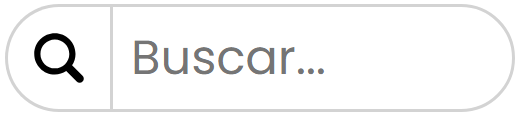
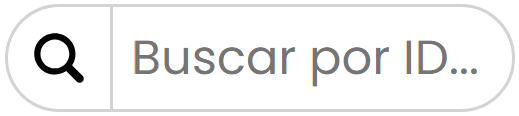
fix: No quitar filtro cuando edito un pedido de la lista filtrada

Changed region(s): [[0.2466, 0.3362, 0.9249, 0.75]]

diff --git a/frontend/src/pages/backOffice/managers/OrderManager/OrderManager.js b/frontend/src/pages/backOffice/managers/OrderManager/OrderManager.js
@@ -150,7 +150,7 @@ function OrderManager() {
       setOrdersPerPage(4);
       setMaxPageNumbersToShow(9);
     }
-  }, [costoEnvio, entrega]);
+  }, []);
 
   useEffect(() => {
     setCantidadPedidosPendientes(
@@ -1232,7 +1232,7 @@ function OrderManager() {
                       value={query}
                       onChange={(e) => setQuery(e.target.value)}
                       onKeyUp={search}
-                      placeholder="Buscar..."
+                      placeholder="Buscar por ID..."
                     />
                   </div>
                 </div>
